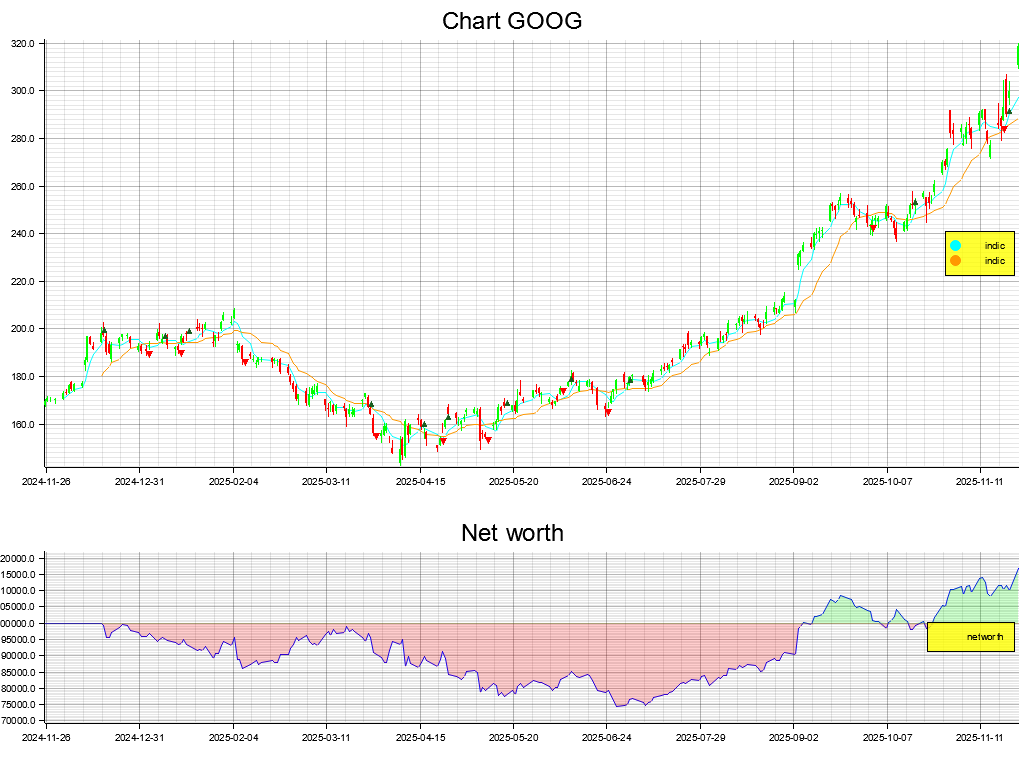
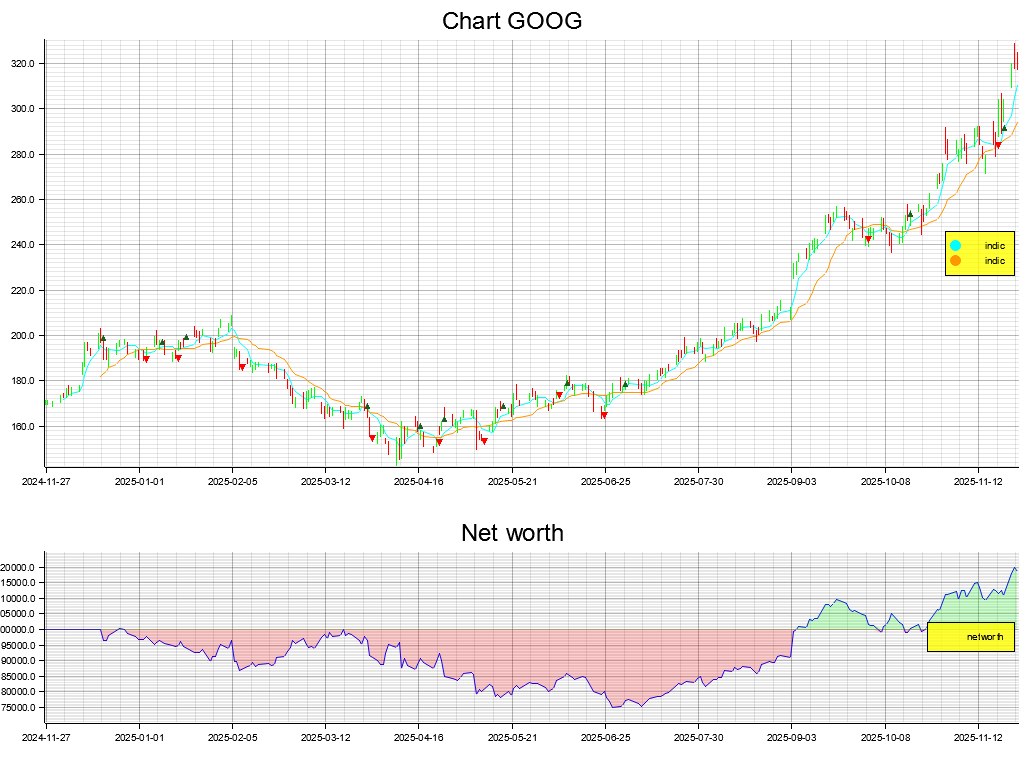
markers and title for i chart

diff --git a/src/charts.rs b/src/charts.rs
@@ -1,7 +1,11 @@
 use crate::backtester::Backtest;
+use crate::broker::Status::Executed;
 use crate::orders;
-use charming::component::{Axis, DataZoom, DataZoomType, Grid};
-use charming::element::{AreaStyle, AxisLabel, Tooltip, Trigger};
+use crate::orders::Order::{BUY, SHORTSELL};
+use charming::component::{Axis, DataZoom, DataZoomType, Grid, Title};
+use charming::datatype::{CompositeValue, DataPoint};
+use charming::element::{AreaStyle, AxisLabel, ItemStyle, Symbol, TextAlign, Tooltip, Trigger};
+use charming::series::Scatter;
 use charming::series::{Bar, Candlestick, Line};
 use charming::{Chart, HtmlRenderer};
 use chrono::{DateTime, FixedOffset};
@@ -9,6 +13,8 @@ use plotters::coord::types::RangedCoordf64;
 use plotters::prelude::*;
 use plotters::style::full_palette::{GREEN_900, GREY, ORANGE};
 use std::env;
+use charming::element::TextAlign::Center;
+use charming::series::Align::Left;
 
 ///configuration used in charts
 pub struct PlotConfig {
@@ -307,8 +313,55 @@ fn interactive_chart(bt: Backtest) -> Chart {
             ]
         })
         .collect();
+    let combined = bt
+        .broker
+        .status
+        .iter()
+        .zip(bt.strategy.choices.iter())
+        .zip(bt.strategy.data.open.iter())
+        .enumerate();
+    let buys: Vec<(usize, f64)> = combined
+        .clone()
+        .filter_map(|(i, ((exec, ord), price))| {
+            if *exec == Executed && *ord == BUY {
+                Some((i, *price))
+            } else {
+                None
+            }
+        })
+        .collect();
+    let buys_points: Vec<DataPoint> = buys
+        .iter()
+        .map(|(i, price)| {
+            DataPoint::Value(CompositeValue::Array(vec![
+                CompositeValue::Number(charming::datatype::NumericValue::Float(*i as f64)),
+                CompositeValue::Number(charming::datatype::NumericValue::Float(*price)),
+            ]))
+        })
+        .collect();
+    let sells: Vec<(usize, f64)> = combined
+        .clone()
+        .filter_map(|(i, ((exec, ord), price))| {
+            if *exec == Executed && *ord == SHORTSELL {
+                Some((i, *price))
+            } else {
+                None
+            }
+        })
+        .collect();
+    let sells_points: Vec<DataPoint> = sells
+        .iter()
+        .map(|(i, price)| {
+            DataPoint::Value(CompositeValue::Array(vec![
+                CompositeValue::Number(charming::datatype::NumericValue::Float(*i as f64)),
+                CompositeValue::Number(charming::datatype::NumericValue::Float(*price)),
+            ]))
+        })
+        .collect();
 
-    Chart::new()
+    let down_triangle = "path://M0,10 L-8,-6 L8,-6 Z";
+
+    Chart::new().title(Title::new().text(bt.strategy.data.ticker.clone()).left("center"))
         .data_zoom(
             DataZoom::new()
                 .x_axis_index(vec![0, 1, 2])
@@ -333,6 +386,20 @@ fn interactive_chart(bt: Backtest) -> Chart {
                 .axis_label(AxisLabel::new()),
         )
         .series(Candlestick::new().data(candles))
+        .series(
+            Scatter::new()
+                .name("Buys")
+                .data(buys_points)
+                .symbol(Symbol::Triangle)
+                .item_style(ItemStyle::new().color("black")),
+        )
+        .series(
+            Scatter::new()
+                .name("Sells")
+                .data(sells_points)
+                .symbol(Symbol::Custom(down_triangle.to_string()))
+                .item_style(ItemStyle::new().color("black")),
+        )
         .grid(Grid::new().top("65%").height("10%"))
         .x_axis(
             Axis::new().grid_index(1).data(

diff --git a/src/broker.rs b/src/broker.rs
@@ -53,7 +53,8 @@ pub struct Broker {
     pub execution: Vec<Execution>,
     pub status: Vec<Status>,
     pub available: Vec<f64>,
-    pub position: Vec<i32>,
+    //pub position: Vec<i32>,
+    pub position: Vec<f64>,
     pub invested: Vec<f64>,
     pub fees: Vec<f64>,
     pub account: Vec<f64>,
